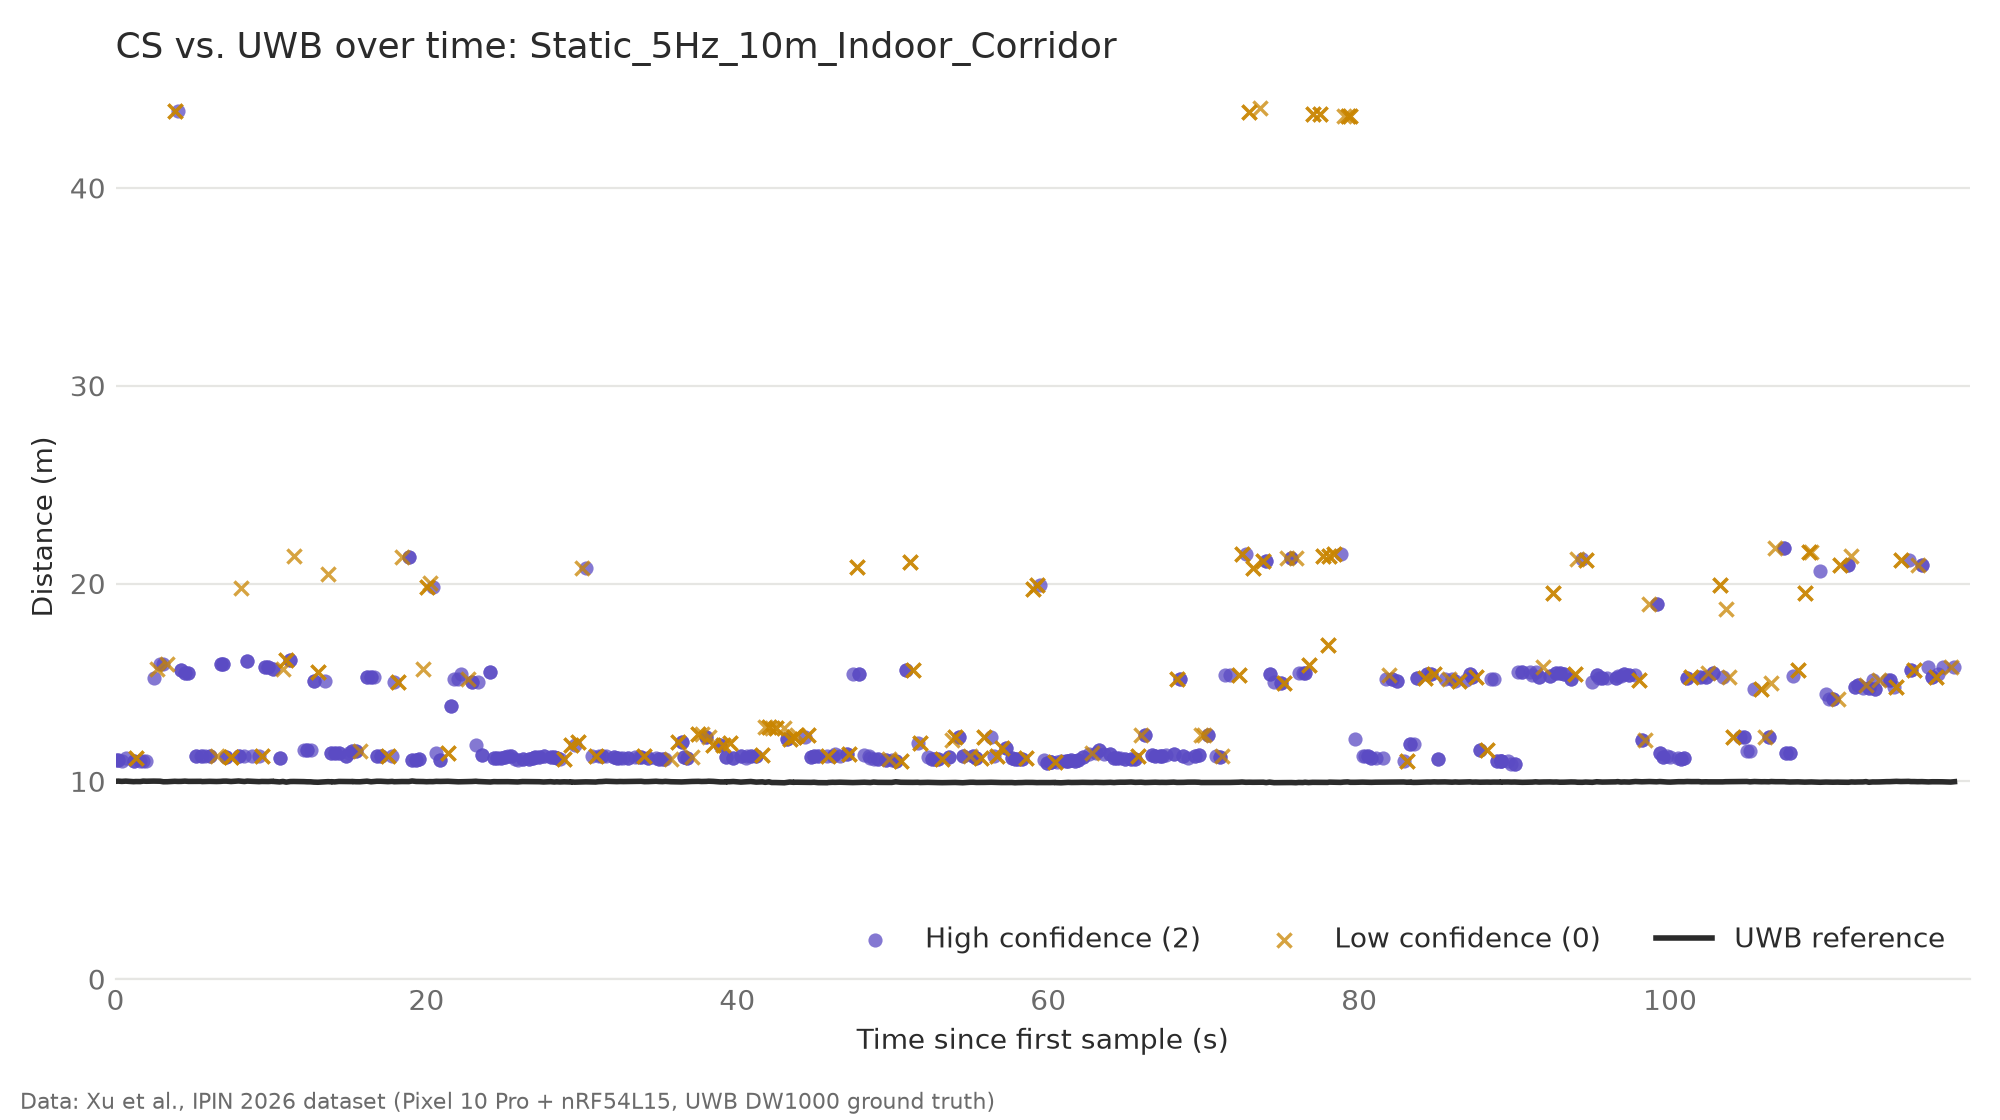
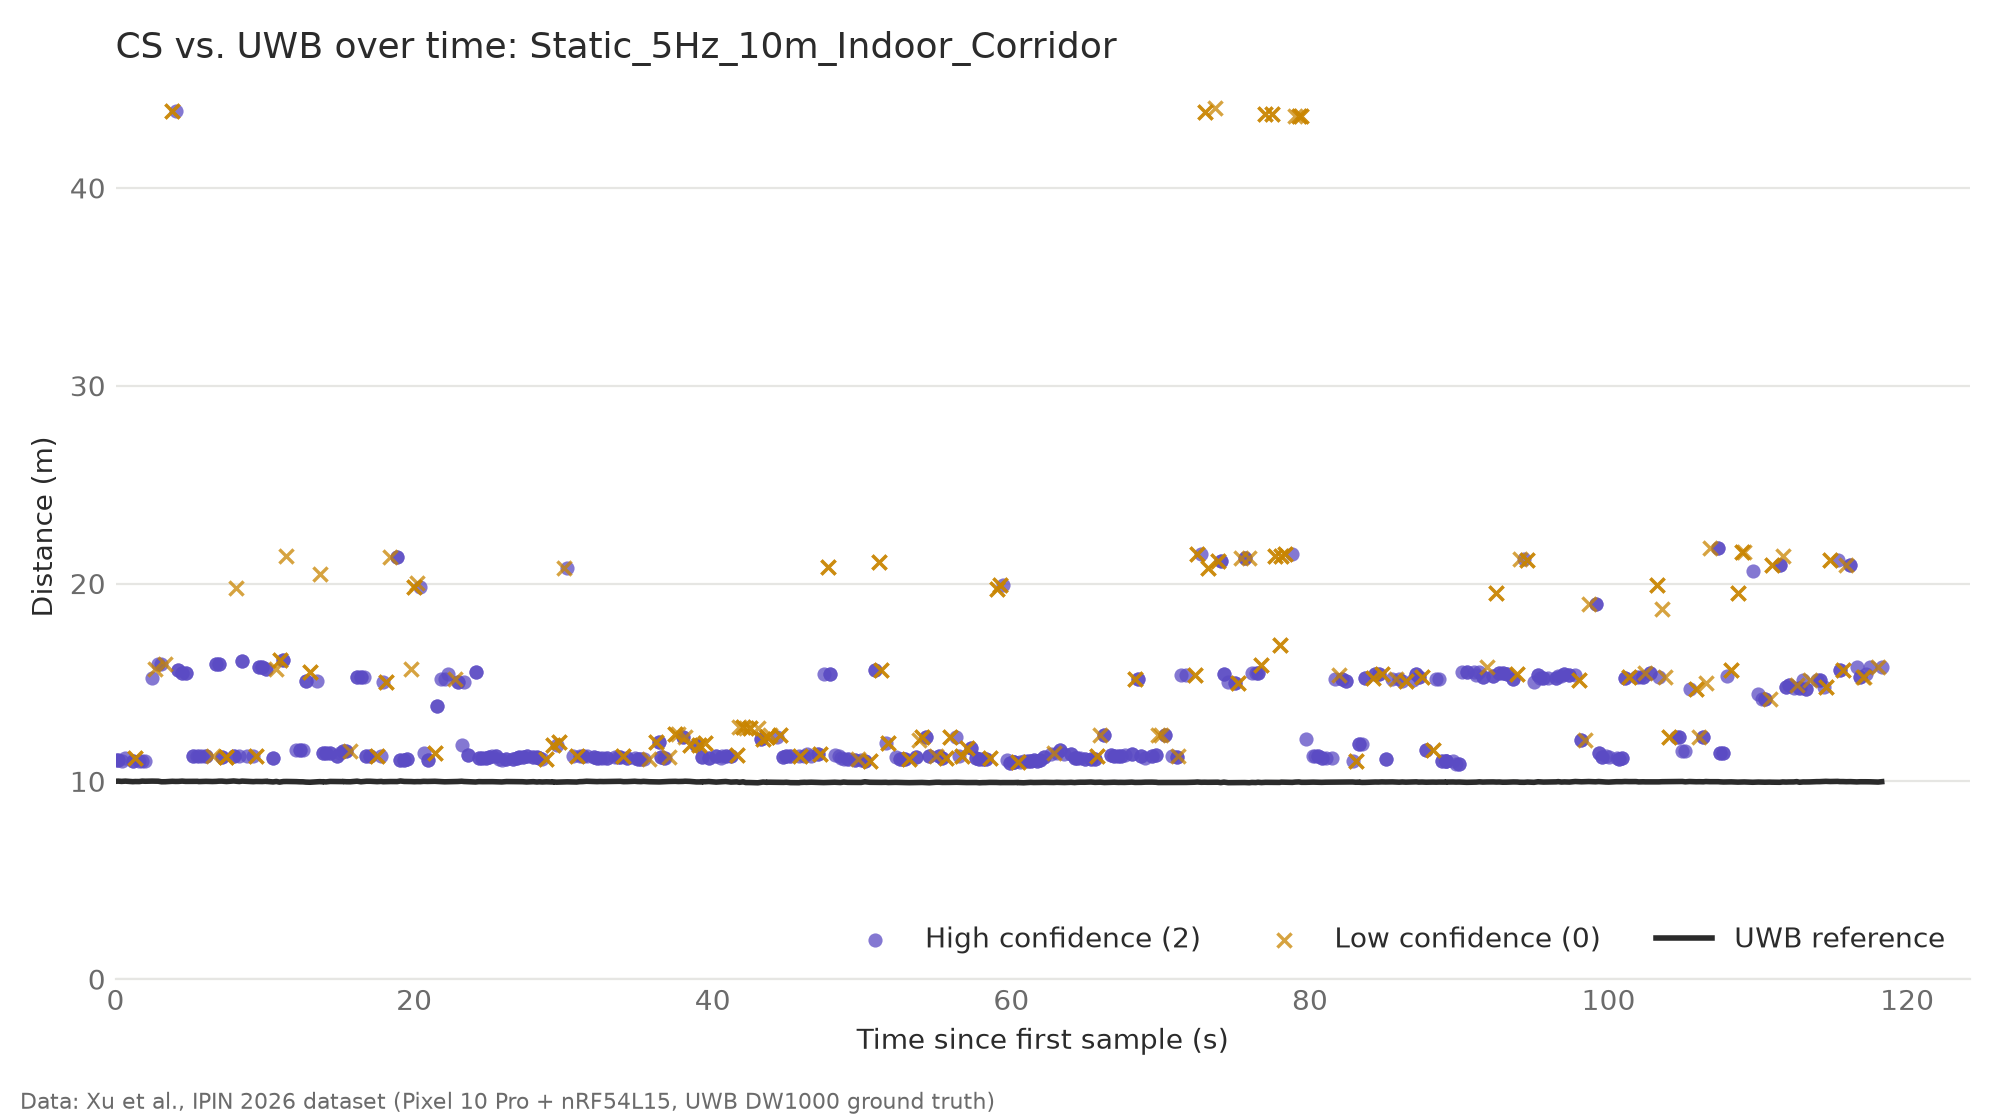
Add Figures A, B, and C with walking analysis
Compute static statistics and error by distance, compare 10 m outdoors and
indoors, and report the apparent CS lag across all walking scenarios.

diff --git a/scripts/timeseries.py b/scripts/timeseries.py
@@ -1,4 +1,4 @@
-"""Plot CS against UWB over time, colored by confidence level (README: indoor 10 m outlier check)."""
+"""Plot CS against UWB over time: the indoor 10 m outlier check, Figure B, and Figure C."""
 import argparse
 from pathlib import Path
 
@@ -6,16 +6,17 @@ import matplotlib
 
 matplotlib.use("Agg")
 import matplotlib.pyplot as plt
+import pandas as pd
 
-from align import align
+from align import TOLERANCE, align, load_gt
+from style import FIGSIZE, INDOOR, INK, OUTDOOR, save, style_axes
 
-SCENARIO = "Static_5Hz_10m_Indoor_Corridor"
-SOURCE = "Data: Xu et al., IPIN 2026 dataset (Pixel 10 Pro + nRF54L15, UWB DW1000 ground truth)"
+INDOOR_10M = "Static_5Hz_10m_Indoor_Corridor"
+OUTDOOR_10M = "Static_5Hz_10m_Outdoor"
+WALK = "Dynamic_10Hz_Outdoor"
 DUPLICATE_WINDOW = 0.005  # seconds
+LAGS = [lag / 10 for lag in range(-50, 51)]  # seconds
 ERROR_BANDS = ((0, 2), (2, 10), (10, float("inf")))  # metres
-INK = "#2b2b2b"
-MUTED = "#6b6b6b"
-GRID = "#e6e6e3"
 # Not the outdoor/indoor colors used by the other figures: here color means confidence.
 CONFIDENCE_STYLES = {
     2: {"label": "High confidence (2)", "color": "#5b4bc4", "marker": "o"},
@@ -26,14 +27,14 @@ CONFIDENCE_STYLES = {
 
 def prepare(data_dir, scenario):
     """Aligned rows plus `s` = seconds from the first sample and `repeat` = near-duplicate flag."""
-    m = align(data_dir, scenario).reset_index(drop=True)
+    m = align(data_dir, scenario).dropna(subset=["err"]).reset_index(drop=True)
     m["s"] = (m["t"] - m["t"].min()).dt.total_seconds()
     m["repeat"] = (m["s"].diff() <= DUPLICATE_WINDOW) & (m["Distance (m)"].diff() == 0)
     return m
 
 
-def summarize(m):
-    """Print the numbers used to interpret the plot."""
+def summarize_outlier(m):
+    """Print the numbers used to interpret the indoor 10 m plot."""
     print(f"samples: {len(m)}, repeats within {DUPLICATE_WINDOW * 1000:.0f} ms: {m['repeat'].sum()}")
     unique = m[~m["repeat"]]
     print(f"MAE: all {m['err'].abs().mean():.2f} m, without repeats {unique['err'].abs().mean():.2f} m")
@@ -55,36 +56,88 @@ def summarize(m):
               f"({len(band) / len(m):.0%} of samples)")
 
 
-def plot(m, scenario, out_dir):
-    fig, ax = plt.subplots(figsize=(10, 5.6))
+def lagged_median_error(m, gt, lag):
+    """Median absolute error if each CS sample is compared with UWB `lag` seconds earlier."""
+    shifted_t = (m["t"] - pd.Timedelta(seconds=lag)).astype(gt["t"].dtype)
+    shifted = m[["Distance (m)"]].assign(t=shifted_t)
+    paired = pd.merge_asof(shifted, gt[["t", "Distance(m)"]], on="t", direction="nearest", tolerance=TOLERANCE)
+    return (paired["Distance (m)"] - paired["Distance(m)"]).abs().median()
+
+
+def walk_stats(data_dir):
+    """One row per dynamic scenario, so Figure C can be read against the other walks."""
+    rows = []
+    for path in sorted((Path(data_dir) / "RangingFilter").glob("Dynamic_*.csv")):
+        m = prepare(data_dir, path.stem)
+        gt = load_gt(data_dir, path.stem)
+        by_lag = {lag: lagged_median_error(m, gt, lag) for lag in LAGS}
+        best = min(by_lag, key=by_lag.get)
+        rows.append({
+            "scenario": path.stem,
+            "n": len(m),
+            "median_abs": m["err"].abs().median(),
+            "MAE": m["err"].abs().mean(),
+            "P95": m["err"].abs().quantile(0.95),
+            "best_lag_s": best,
+            "median_abs_at_lag": by_lag[best],
+        })
+    return pd.DataFrame(rows)
+
+
+def draw_reference(ax, m):
+    ax.plot(m["s"], m["Distance(m)"], color=INK, linewidth=2, zorder=4, label="UWB reference")
+    style_axes(ax)
+    ax.set_xlim(0, None)
+    ax.set_ylim(0, None)
+    ax.set_ylabel("Distance (m)", color=INK)
+
+
+def draw_cs(ax, m, color, marker):
+    ax.scatter(m["s"], m["Distance (m)"], s=26, color=color, marker=marker, linewidths=0,
+               alpha=0.75, zorder=3, label="CS")
+
+
+def plot_outlier(m, out_dir):
+    fig, ax = plt.subplots(figsize=FIGSIZE)
     for level, style in CONFIDENCE_STYLES.items():
         group = m[m["Confidence Level"] == level]
         if group.empty:
             continue
         ax.scatter(group["s"], group["Distance (m)"], s=26, linewidths=1.2 if style["marker"] == "x" else 0,
                    alpha=0.75, zorder=3, **style)
-
-    ax.plot(m["s"], m["Distance(m)"], color=INK, linewidth=2, zorder=4, label="UWB reference")
-
+    draw_reference(ax, m)
     ax.set_xlabel("Time since first sample (s)", color=INK)
-    ax.set_ylabel("Distance (m)", color=INK)
-    ax.set_xlim(0, m["s"].max() + 1)
-    ax.set_ylim(0, None)
-    ax.grid(axis="y", color=GRID, linewidth=0.8)
-    ax.set_axisbelow(True)
-    ax.tick_params(colors=MUTED, length=0)
-    for side in ("top", "right", "left"):
-        ax.spines[side].set_visible(False)
-    ax.spines["bottom"].set_color(GRID)
     ax.legend(loc="lower right", frameon=False, ncols=3, labelcolor=INK)
+    ax.set_title(f"CS vs. UWB over time: {INDOOR_10M}", loc="left", color=INK, fontsize=13)
+    path = save(fig, out_dir, f"timeseries_{INDOOR_10M}.png")
+    plt.close(fig)
+    return path
 
-    ax.set_title(f"CS vs. UWB over time: {scenario}", loc="left", color=INK, fontsize=13)
-    fig.text(0.01, 0.01, SOURCE, color=MUTED, fontsize=8)
-    fig.tight_layout(rect=(0, 0.03, 1, 1))
 
-    out_dir.mkdir(parents=True, exist_ok=True)
-    path = out_dir / f"timeseries_{scenario}.png"
-    fig.savefig(path, dpi=200)
+def plot_figure_b(outdoor, indoor, out_dir):
+    fig, axes = plt.subplots(2, 1, figsize=FIGSIZE, sharex=True, sharey=True)
+    panels = ((outdoor, "Outdoor", OUTDOOR, "o"), (indoor, "Indoor corridor", INDOOR, "s"))
+    for ax, (m, name, color, marker) in zip(axes, panels):
+        draw_cs(ax, m, color, marker)
+        draw_reference(ax, m)
+        ax.set_title(f"{name}: MAE {m['err'].abs().mean():.2f} m", loc="left", color=INK, fontsize=11)
+        ax.set_ylim(0, 48)
+        ax.legend(loc="center right", frameon=False, ncols=2, labelcolor=INK)
+    axes[1].set_xlabel("Time since first sample (s)", color=INK)
+    fig.suptitle("The same 10 m at 5 Hz, in two environments", x=0.01, ha="left", color=INK, fontsize=13)
+    path = save(fig, out_dir, "figure_b_10m_comparison.png")
+    plt.close(fig)
+    return path
+
+
+def plot_figure_c(m, out_dir):
+    fig, ax = plt.subplots(figsize=FIGSIZE)
+    draw_cs(ax, m, OUTDOOR, "o")
+    draw_reference(ax, m)
+    ax.set_xlabel("Time since first sample (s)", color=INK)
+    ax.legend(loc="upper left", frameon=False, ncols=2, labelcolor=INK)
+    ax.set_title(f"CS tracking UWB during a walk: {WALK}", loc="left", color=INK, fontsize=13)
+    path = save(fig, out_dir, "figure_c_walk.png")
     plt.close(fig)
     return path
 
@@ -93,12 +146,17 @@ def main():
     parser = argparse.ArgumentParser(description=__doc__)
     parser.add_argument("--data", type=Path, default=Path("data"))
     parser.add_argument("--out", type=Path, default=Path("figures"))
-    parser.add_argument("--scenario", default=SCENARIO)
     args = parser.parse_args()
 
-    m = prepare(args.data, args.scenario)
-    summarize(m)
-    print(f"\nsaved {plot(m, args.scenario, args.out)}")
+    indoor = prepare(args.data, INDOOR_10M)
+    outdoor = prepare(args.data, OUTDOOR_10M)
+    walk = prepare(args.data, WALK)
+    summarize_outlier(indoor)
+    print("\nwalks")
+    print(walk_stats(args.data).round(2).to_string(index=False))
+    print(f"\nsaved {plot_outlier(indoor, args.out)}")
+    print(f"saved {plot_figure_b(outdoor, indoor, args.out)}")
+    print(f"saved {plot_figure_c(walk, args.out)}")
 
 
 if __name__ == "__main__":

diff --git a/scripts/static_error.py b/scripts/static_error.py
@@ -1,0 +1,96 @@
+"""Compute static error statistics and plot Figure A: error by distance, outdoor vs. indoor."""
+import argparse
+from pathlib import Path
+
+import matplotlib
+
+matplotlib.use("Agg")
+import matplotlib.pyplot as plt
+import numpy as np
+import pandas as pd
+
+from align import align
+from style import FIGSIZE, INDOOR, INK, OUTDOOR, save, style_axes
+
+ENVIRONMENTS = {
+    "Outdoor": {"color": OUTDOOR, "marker": "o", "label_offset": (-6, 8), "label_ha": "right"},
+    "Indoor": {"color": INDOOR, "marker": "s", "label_offset": (8, 6), "label_ha": "left"},
+}
+PANELS = {"MAE": "Mean absolute error", "P95": "95th percentile of absolute error"}
+
+
+def scenario_stats(data_dir):
+    """One row per static scenario, as in the README table."""
+    rows = []
+    for path in sorted((Path(data_dir) / "RangingFilter").glob("Static_*.csv")):
+        err = align(data_dir, path.stem)["err"].dropna()
+        _, _, distance, environment = path.stem.split("_", 3)
+        rows.append({
+            "scenario": path.stem,
+            "environment": environment.split("_")[0],
+            "distance": int(distance.removesuffix("m")),
+            "n": len(err),
+            "mean": err.mean(),
+            "MAE": err.abs().mean(),
+            "std": err.std(),
+            "P95": err.abs().quantile(0.95),
+            "RMSE": np.sqrt((err ** 2).mean()),
+        })
+    return pd.DataFrame(rows)
+
+
+def combine_rates(stats):
+    """Merge update rates per environment and distance with an n-weighted average."""
+    def weighted(group):
+        return pd.Series({
+            "n": group["n"].sum(),
+            "MAE": np.average(group["MAE"], weights=group["n"]),
+            "P95": np.average(group["P95"], weights=group["n"]),
+        })
+
+    return stats.groupby(["environment", "distance"])[["n", "MAE", "P95"]].apply(weighted).reset_index()
+
+
+def plot(combined, out_dir):
+    fig, axes = plt.subplots(1, 2, figsize=FIGSIZE, sharex=True, sharey=True)
+    for ax, (metric, title) in zip(axes, PANELS.items()):
+        for environment, style in ENVIRONMENTS.items():
+            group = combined[combined["environment"] == environment]
+            ax.plot(group["distance"], group[metric], linewidth=2, markersize=8, markeredgecolor="white",
+                    label=environment, color=style["color"], marker=style["marker"])
+            at_10m = group[group["distance"] == 10].iloc[0]
+            ax.annotate(f"{environment} 10 m: {at_10m[metric]:.2f} m", (10, at_10m[metric]),
+                        xytext=style["label_offset"], textcoords="offset points", ha=style["label_ha"],
+                        color=INK, fontsize=9)
+        style_axes(ax)
+        ax.set_xscale("log")
+        ax.set_xticks([1, 10, 25, 50], labels=["1", "10", "25", "50"])
+        ax.minorticks_off()
+        ax.set_ylim(0, 13)
+        ax.set_title(title, loc="left", color=INK, fontsize=11)
+        ax.set_xlabel("Distance (m, log scale)", color=INK)
+    axes[0].set_ylabel("Error (m)", color=INK)
+    axes[0].legend(loc="upper right", frameon=False, labelcolor=INK)
+
+    fig.suptitle("CS error against UWB by distance (static runs)", x=0.01, ha="left", color=INK, fontsize=13)
+    path = save(fig, out_dir, "figure_a_static_error.png")
+    plt.close(fig)
+    return path
+
+
+def main():
+    parser = argparse.ArgumentParser(description=__doc__)
+    parser.add_argument("--data", type=Path, default=Path("data"))
+    parser.add_argument("--out", type=Path, default=Path("figures"))
+    args = parser.parse_args()
+
+    stats = scenario_stats(args.data)
+    print(stats.round(2).to_string(index=False))
+    print(f"\ntotal samples: {stats['n'].sum()}\n")
+    combined = combine_rates(stats)
+    print(combined.round(2).to_string(index=False))
+    print(f"\nsaved {plot(combined, args.out)}")
+
+
+if __name__ == "__main__":
+    main()

diff --git a/scripts/style.py b/scripts/style.py
@@ -1,0 +1,28 @@
+"""Shared figure style for the slides."""
+SOURCE = "Data: Xu et al., IPIN 2026 dataset (Pixel 10 Pro + nRF54L15, UWB DW1000 ground truth)"
+FIGSIZE = (10, 5.6)
+DPI = 200
+OUTDOOR = "#2a6fb0"
+INDOOR = "#d4762a"
+INK = "#2b2b2b"
+MUTED = "#6b6b6b"
+GRID = "#e6e6e3"
+
+
+def style_axes(ax):
+    ax.grid(axis="y", color=GRID, linewidth=0.8)
+    ax.set_axisbelow(True)
+    ax.tick_params(colors=MUTED, length=0)
+    for side in ("top", "right", "left"):
+        ax.spines[side].set_visible(False)
+    ax.spines["bottom"].set_color(GRID)
+
+
+def save(fig, out_dir, name):
+    """Add the source line, then write `name` to `out_dir` and return its path."""
+    fig.text(0.01, 0.01, SOURCE, color=MUTED, fontsize=8)
+    fig.tight_layout(rect=(0, 0.03, 1, 1))
+    out_dir.mkdir(parents=True, exist_ok=True)
+    path = out_dir / name
+    fig.savefig(path, dpi=DPI)
+    return path

diff --git a/README.md b/README.md
@@ -70,6 +70,10 @@ The table covers 13 static scenarios and 16,589 aligned samples. "95%" is the 95
 - Outdoors at 10 m and 25 m, the 5 Hz runs show larger errors than the 10 Hz runs. We have not determined why, so we do not draw a conclusion from this.
 - Each n counts every aligned row. Across the 13 scenarios, 0–55% of rows repeat the previous value within 5 ms. Removing these repeats changes MAE by at most 0.07 m, so the observations above do not depend on them.
 
+![CS error by distance for outdoor and indoor static runs, with mean absolute error and 95th percentile panels](figures/figure_a_static_error.png)
+
+Figure A combines update rates at each distance using an n-weighted average of the per-run values. The combined 95% value is therefore an average of percentiles, not a percentile of the pooled samples.
+
 ## Results: the indoor 10 m outlier
 
 ![CS and UWB distance over time for the indoor 10 m scenario, colored by confidence level](figures/timeseries_Static_5Hz_10m_Indoor_Corridor.png)
@@ -79,6 +83,32 @@ The table covers 13 static scenarios and 16,589 aligned samples. "95%" is the 95
 - **Confidence level helps only partly.** Low-confidence samples make up 72% of errors of 10 m or more, compared with 17% of errors under 2 m. High-confidence samples can still be far off, with a maximum error of 33.92 m.
 
 Positive jumps between distinct levels are consistent with multipath, where a longer reflected path could be measured instead of the direct one. This is our hypothesis: the Android API does not expose the raw data needed to test it, and this is a single recording.
+
+Figure B compares this run with the outdoor run at the same distance and update rate. The outdoor log is longer, and it is shown in full so that its two largest deviations stay visible.
+
+![Outdoor and indoor 10 m time series at 5 Hz, one above the other](figures/figure_b_10m_comparison.png)
+
+## Results: walking
+
+![CS and UWB distance during an outdoor walk at 10 Hz](figures/figure_c_walk.png)
+
+Figure C shows one linear outdoor walk. The table lists all eight walking scenarios so that it can be read in context. Values are in meters, except n and lag.
+
+| Scenario | n | Median abs. error | MAE | 95% | Best-fit lag (s) | Median abs. error at that lag |
+|---|---:|---:|---:|---:|---:|---:|
+| `Dynamic_10Hz_Indoor_Corridor` | 879 | 2.80 | 2.59 | 4.42 | 2.9 | 0.43 |
+| `Dynamic_5Hz_Indoor_Corridor` | 551 | 2.32 | 2.50 | 4.83 | 3.2 | 0.69 |
+| `Dynamic_10Hz_Outdoor` | 1190 | 1.99 | 2.47 | 10.25 | 2.7 | 0.28 |
+| `Dynamic_5Hz_Outdoor` | 609 | 2.15 | 4.69 | 32.98 | 2.9 | 0.35 |
+| `Dynamic_10Hz_Outdoor_backforth` | 576 | 2.86 | 3.66 | 16.91 | 2.9 | 0.33 |
+| `Dynamic_5Hz_Outdoor_Backforth` | 269 | 2.82 | 4.77 | 18.81 | 2.9 | 0.28 |
+| `Dynamic_10Hz_Outdoor_Swing` | 1106 | 2.18 | 2.23 | 4.53 | 2.8 | 0.27 |
+| `Dynamic_5Hz_Outdoor_Swing` | 531 | 2.10 | 1.99 | 3.86 | 3.0 | 0.21 |
+
+- **CS follows the shape of the walk, but later.** CS reads below UWB while the distance grows and above it while the distance shrinks. Comparing each CS sample with UWB from about 3 s earlier (2.7–3.2 s across all eight runs) lowers the median absolute error from 1.99–2.86 m to 0.21–0.69 m.
+- **We cannot tell where this lag comes from.** It could be smoothing or latency in the Android API, or an offset between the two logs' clocks, and the dataset documentation does not address it. The lag was fitted to the same data it is evaluated on, so the lag-adjusted values are optimistic. It should not be presented as a measured CS latency.
+- **Large deviations remain.** Some runs have a 95% error above 10 m, including Figure C, where readings reach 57 m around the 30 s mark.
+- **Static results are not affected by the same mechanism.** The UWB distance is nearly constant in those runs, so a time shift would change their errors very little.
 
 ## Limitations
 
@@ -101,22 +131,18 @@ source .venv/bin/activate
 pip install -r requirements.txt
 ```
 
-## Repository layout and status
+## Repository layout
 
 ```
 ├── requirements.txt
 ├── data/                   # Dataset clone (not committed)
 ├── scripts/
 │   ├── align.py            # Loads a scenario and aligns CS with UWB
-│   └── timeseries.py       # Plots CS against UWB over time, by confidence level
+│   ├── static_error.py     # Static statistics table and Figure A
+│   ├── style.py            # Shared figure style
+│   └── timeseries.py       # Indoor 10 m check, walking statistics, Figures B and C
 └── figures/                # Slide figures (PNG)
 ```
-
-Work in progress:
-
-- **Figure A:** MAE and 95th-percentile error by distance, outdoor vs. indoor, with update rates combined by n-weighted average (`scripts/static_error.py`).
-- **Figure B:** outdoor 10 m and indoor 10 m time series, one above the other.
-- **Figure C (optional):** CS tracking UWB during a walk, from a `Dynamic_*` scenario.
 
 Scripts run as `python scripts/<name>.py --data data --out figures`.
 
